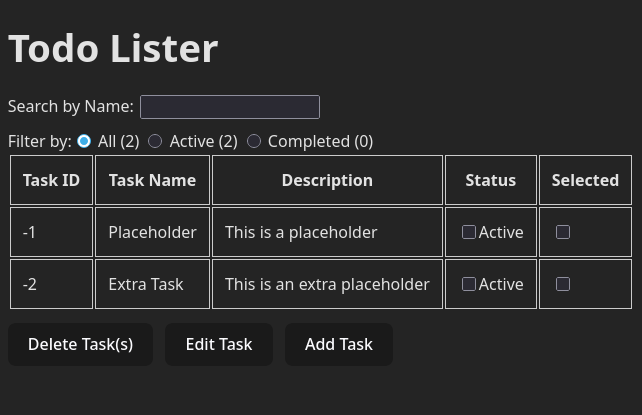
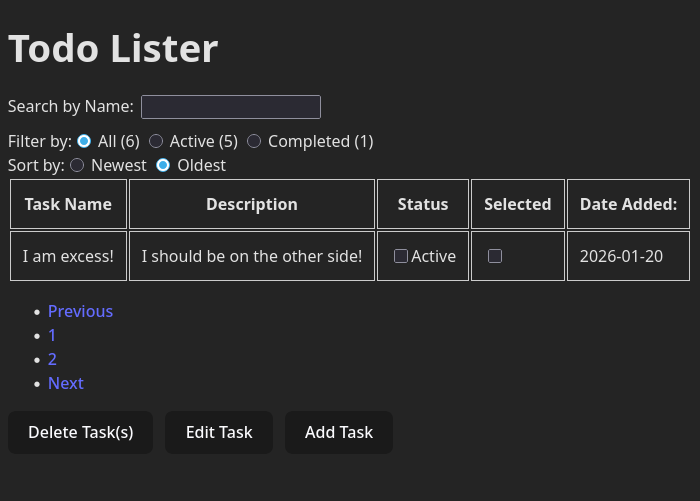
Implemented third-party library 'react-paginate' for table pagination.
Todo refactored to perform rendering under PaginatedItems.
Added some comments explaining the "why" on certain code.

Updated README.md and added two new screenshots.

diff --git a/src/App.jsx b/src/App.jsx
@@ -2,13 +2,13 @@ import { useState, useEffect } from 'react';
 import { nanoid } from 'nanoid';
 import './App.css';
 
-import Todo from "./components/Todo";
 import FilterRadio from './components/FilterRadio';
 import TaskDialog from './components/TaskDialog';
 import DeleteButton from './components/DeleteButton';
 import SearchBar from './components/Search';
 import UndoDialog from './components/UndoDialog';
 import FilterRecency from './components/FilterRecency';
+import PaginatedItems from './components/PaginatedItems';
 
 function App(props) {
   const [tasks, setTasks] = useState(() => {
@@ -36,10 +36,11 @@ function App(props) {
     setIsEditDialog(false);
   };
 
+  // Feature addition: Limited-time for undo delete.
   const openUndoDialog = () => setIsUndoDialogOpen(true);
   const closeUndoDialog = () => {
     setIsUndoDialogOpen(false);
-    // Ensures that recently deleted task holder is cleared regardless of UndoDialog's output.
+    // Ensures that the state variable is emptied regardless of how UndoDialog is closed.
     setDeletedTasks([]);  
   }
   useEffect(() => {
@@ -49,7 +50,6 @@ function App(props) {
           closeUndoDialog();
       }, 3000);
     }
-
     return () => {
       clearTimeout(toastTimer);
     };  
@@ -69,6 +69,7 @@ function App(props) {
     task.name.toLowerCase().includes(nameSearchFilter.toLowerCase().trim())
   );
 
+  // Feature addition: Sort by Date
   const tasksBySort = [...tasksByName].sort((a, b) => {
     if (sortOrder === "newest") {
       return b.dateAdded - a.dateAdded;
@@ -77,38 +78,17 @@ function App(props) {
     }
   });
 
-  console.log(tasksBySort);
-
-  const todoList = tasksBySort?.map((task) => (
-    <Todo 
-      id={task.id} 
-      name={task.name} 
-      description={task.description} 
-      isCompleted={task.isCompleted}
-      isSelected={task.isSelected}
-      key={task.id}
-      handleToggleSelect={handleToggleSelect}
-      handleToggleStatus={handleToggleStatus}
-    />
-  ));
-
-  function handleToggleStatus(id) {
-    const updatedTasks = tasks.map((task) => {
-      if (id === task.id) {
-        return {...task, isCompleted: !task.isCompleted};
-      }
-      return task;
-    });
-    setTasks(updatedTasks);
-  };
+  // const todoList refactored to return parameter of Todo function.
 
   function addTask(name, description) {
+    // Generated nanoid output is still used as a way to track unique entries 
+    // for all manners of entry manipulation/selection.
     const newTask = {
-      id: nanoid(3), 
+      id: nanoid(3),
       name, description, 
       isCompleted: false, 
       isSelected: false,
-      dateAdded: Date.now() // Used as our system-only key for sorting.
+      dateAdded: Date.now() // Used for sorting.
     };
     setTasks([...tasks, newTask]);
   };
@@ -135,6 +115,8 @@ function App(props) {
     openTaskDialog();
   }
 
+
+  // TODO: Attempt to refactor these two functions to Todo.jsx.
   function handleToggleSelect(event) {
       const value = event.target.value;
 
@@ -144,6 +126,16 @@ function App(props) {
           setSelectedTasks(selectedTasks.filter((item) => item !== value));
       }
   }
+
+  function handleToggleStatus(event) {
+    const updatedTasks = tasks.map((task) => {
+      if (event.target.value === task.id) {
+        return {...task, isCompleted: !task.isCompleted};
+      }
+      return task;
+    });
+    setTasks(updatedTasks);
+  };
 
   return (
     <>
@@ -174,22 +166,14 @@ function App(props) {
           />
         </div>
 
-        <div className="todo-list-container">
-        <table>
-            <thead>
-              <tr>
-                <th> Task ID </th>
-                <th> Task Name </th>
-                <th> Description </th>
-                <th> Status </th>
-                <th> Selected </th>
-              </tr>
-            </thead>
-
-            <tbody>
-              {todoList}
-            </tbody>
-          </table>
+        <div id="container">
+              {/* <Todo /> replaced with <PaginatedItems /> for dynamic rendering of pages*/}
+              <PaginatedItems
+                itemsPerPage={5}
+                items={tasksBySort}
+                handleToggleSelect={handleToggleSelect}
+                handleToggleStatus={handleToggleStatus}
+              />
         </div>
 
         <div className="user-input-buttons">

diff --git a/src/components/Todo.jsx b/src/components/Todo.jsx
@@ -1,30 +1,33 @@
-import React, {useState} from 'react';
-
-function Todo(props) {
+function Todo({tasks, handleToggleSelect, handleToggleStatus}) {
     return (
-        <tr>
-            <td> {props.id} </td>
-            <td> {props.name} </td>
-            <td> {props.description}</td>
-            <td> 
-                <input
-                    id={props.id}
-                    type='checkbox'
-                    defaultChecked={props.isCompleted}
-                    onChange= {() => props.handleToggleStatus(props.id)}
-                />
-                {props.isCompleted ? 'Completed' : 'Active'} 
-            </td>
-            <td> 
-                <input
-                    type="checkbox"
-                    name="selectCheckbox"
-                    value={props.id}
-                    checked={props.isChecked}
-                    onChange={props.handleToggleSelect}
-                /> 
-            </td>
-        </tr>
+        <>
+        {
+        tasks.map((task) => (
+            <tr key={task.id}>
+                <td> {task.name} </td>
+                <td> {task.description}</td>
+                <td> 
+                    <input
+                        type='checkbox'
+                        defaultChecked={task.isCompleted}
+                        value={task.id}
+                        onChange= {handleToggleStatus}
+                    />
+                    {task.isCompleted ? 'Completed' : 'Active'} 
+                </td>
+                <td> 
+                    <input
+                        type="checkbox"
+                        name="selectCheckbox"
+                        value={task.id}
+                        checked={task.isChecked}
+                        onChange={handleToggleSelect}
+                    /> 
+                </td>
+                <td> {(new Date(task.dateAdded)).toISOString().split('T')[0]} </td>
+            </tr>
+        ))}
+        </>
     );
 }
 

diff --git a/src/components/PaginatedItems.jsx b/src/components/PaginatedItems.jsx
@@ -1,0 +1,58 @@
+import React, {useState} from 'react';
+import ReactPaginate from "react-paginate";
+
+import Todo from "./Todo";
+
+// Uses react-paginate library by ~adele on npmjs.
+// https://www.npmjs.com/package/react-paginate
+
+// TODO: Add function to automatically return to previous page 
+// if last entry on second (and above) page is deleted.
+
+function PaginatedItems({itemsPerPage, items, handleToggleSelect, handleToggleStatus}) {
+    const [itemOffset, setItemOffset] = useState(0);
+
+    const endOffset = itemOffset + itemsPerPage;
+    const currentItems = items.slice(itemOffset, endOffset);
+    const pageCount = Math.ceil(items.length / itemsPerPage);
+
+    const handlePageClick = (event) => {
+        const newOffset = (event.selected * itemsPerPage) % items.length;
+        setItemOffset(newOffset);
+        console.log('Offsetting');
+    };
+    
+    return (
+        <>
+        <table>
+            <thead>
+              <tr>
+                <th> Task Name </th>
+                <th> Description </th>
+                <th> Status </th>
+                <th> Selected </th>
+                <th> Date Added: </th>
+              </tr>
+            </thead>
+            <tbody>
+                <Todo
+                    tasks={currentItems}
+                    handleToggleSelect={handleToggleSelect}
+                    handleToggleStatus={handleToggleStatus}
+                />
+            </tbody>
+        </table>
+        <ReactPaginate
+            breakLabel='...'
+            nextLabel='Next'
+            onPageChange={handlePageClick}
+            pageRangeDisplayed={5}
+            pageCount={pageCount}
+            previousLabel='Previous'
+            renderOnZeroPageCount={null}
+        />
+        </>
+    )
+}
+
+export default PaginatedItems

diff --git a/src/components/UndoDialog.jsx b/src/components/UndoDialog.jsx
@@ -15,8 +15,7 @@ function UndoDialog(
     function handleUndo(event) {
         event.preventDefault();
 
-        // Removed because deletedTasks may include more that one tasks, 
-        // and all should be reverted if done.
+        // Commented code below is such because deletedTasks may include more that one tasks.
         // const deletedTaskObject = deletedTask[0]
 
         if (deletedTasks.length <= 0) {
@@ -25,17 +24,18 @@ function UndoDialog(
             return false;
         }
 
-        setTasks([...tasks, ...deletedTasks]);
+        setTasks([...tasks, ...deletedTasks]); // "Sort by Date" functionality conveniently re-sorts this.
         onClose();
     }
 
+    // TODO: Implement dynamic counting (or other helpful-to-user UI addition) of deleted entries.
     return (
         <dialog
             ref={ref}
             onCancel={onClose}
             id="undoDialog"
         >
-        <span> Tasks deleted! </span><br/>
+        <span> Task(s) deleted! </span><br/>
         <button name="Undo" type="button" onClick={handleUndo}> Undo </button>
         </dialog>
     )

diff --git a/src/components/DeleteButton.jsx b/src/components/DeleteButton.jsx
@@ -2,7 +2,6 @@ function DeleteButton(props) {
     const numberOfSelected = props.selectedTasks.length;
 
     function handleDeleteTasks() {
-        // TODO: Replace with custom modal dialog that displays names of selected tasks.
         const isConfirmed = window.confirm("Are you sure you want to delete: " + numberOfSelected + " items?");
 
         if (isConfirmed) {

diff --git a/src/components/TaskDialog.jsx b/src/components/TaskDialog.jsx
@@ -30,6 +30,7 @@ function TaskDialog({ isOpen, onClose, isEdit, addTaskHandler, editTaskHandler }
             return null;
         }
         
+        // Reason why TaskDialog is used for both addTask and editTask functions.
         if (isEdit) {
             editTaskHandler(name, description);
         } else {

diff --git a/src/components/FilterRecency.jsx b/src/components/FilterRecency.jsx
@@ -3,6 +3,8 @@ function FilterRecency({sortOrder, setSortOrder}) {
     setSortOrder(event.target.value);
   }
   
+  // Use sortOrder === string instead of isNewest for ease-of-readability.
+
   return (
     <form>
       <label>

diff --git a/README.md b/README.md
@@ -5,13 +5,17 @@ As of current date, this application can only be run through a local development
 
 ## Features
 Implemented for this application are the following features:
-- Add a new entry.
-- Mark entry as either complete/incomplete.
-- Count of total, active, and completed tasks in list.
-- Update entry name and/or description.
-- Delete entry.
-- Search entry by name (using a search bar).
-- Filter entries by "All", "Active", "Completed".
-- Use of localStorage for data persistence of entries.
+- Add a new entry
+- Mark entry as either complete/incomplete
+- Count of total, active, and completed tasks in list
+- Update entry name and/or description
+- Delete entry (with limited-time undo option)
+- Search entry by name (using a search bar)
+- Filter entries by "All", "Active", "Completed"; Sort by "Newest" or "Oldest"
+- Use of localStorage for data persistence of entries
 
-![Screenshot of application at initial state](src/assets/todo-react.png)
+## Third-Party Libraries
+This project uses the [react-paginate](https://www.npmjs.com/package/react-paginate) for a rudimentary pagination of the table for the specified maximum table row entries per page of five.
+
+![Screenshot of application at first page](src/assets/todo-react.png)
+![Screenshot of application at second page](src/assets/todo-react-2.png)
